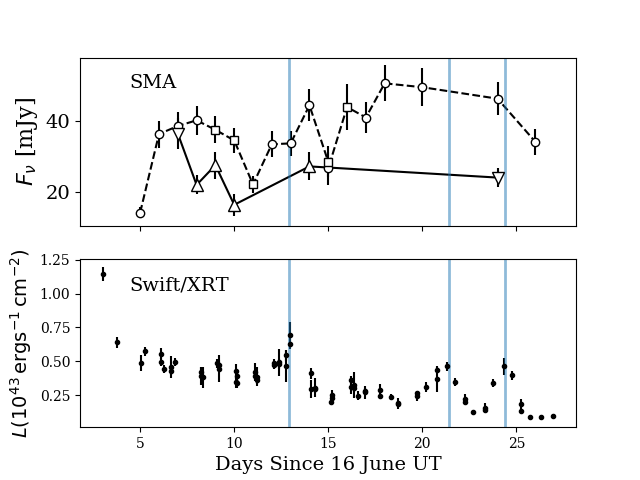
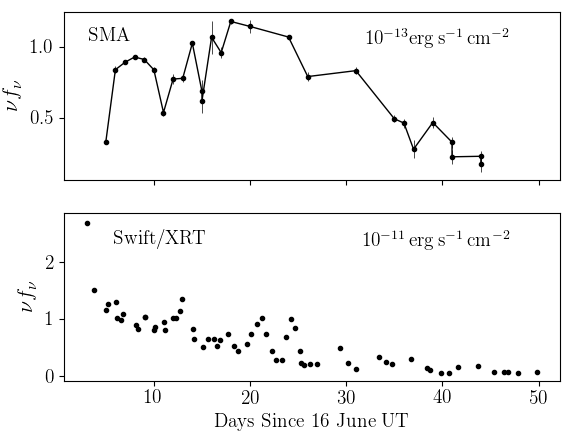
color coded, more sne

diff --git a/paper_plots/nu_peak.py b/paper_plots/nu_peak.py
@@ -8,6 +8,7 @@ rc("font", family="serif")
 rc("text", usetex=True)
 from astropy.table import Table
 from plot_spec import fit_self_abs
+from get_1993J import format_1993J
 
 
 def get_peak(ax, freq_raw, flux_raw, flux_raw_err=None):
@@ -56,12 +57,12 @@ def get_peak(ax, freq_raw, flux_raw, flux_raw_err=None):
             return (nupeak, False)
 
 
-def sn2009bb(ax):
+def sn2009bb(ax, color, label):
     """ Plot for SN 2009bb """
     dt = [20, 52, 81, 145]
     nu_peak = [6, 3, 1, 0.8]
-    ax.scatter(dt, nu_peak, c='grey', marker='o')
-    ax.plot(dt, nu_peak, c='grey', lw=1.0)
+    ax.scatter(dt[0:2], nu_peak[0:2], c=color, marker='o')
+    ax.plot(dt[0:2], nu_peak[0:2], c=color, lw=1.0, label=label)
     ax.text(
             dt[0], nu_peak[0], "SN2009bb", 
             horizontalalignment='right', fontsize=14,
@@ -86,7 +87,24 @@ def at2018cow(ax):
             verticalalignment='center')
 
 
-def sn1998bw(ax):
+def sn1993J(ax, color):
+    """ Plot for SN 1993J """
+    dt, freq, flux = format_1993J()
+    order = np.argsort(dt)
+    choose = flux[order] > 0
+    dt = dt[order][choose]
+    freq = freq[order][choose]
+    flux = flux[order][choose]
+    ax.scatter(11, 87, marker='v', c=color) 
+    ax.scatter(32, 25, marker='v', c=color)
+    ax.scatter(75, 15, marker='v', c=color)
+    ax.scatter(95, 15, marker='v', c=color)
+    ax.plot([11, 32, 75, 95], [87, 25, 15, 15], ls='--', c=color)
+    ax.text(
+            11, 87, "SN1993J", fontsize=14, horizontalalignment='right')
+
+
+def sn1998bw(ax, color, label):
     """ Plot for SN 1998bw 
     http://adsabs.harvard.edu/abs/1999A%26AS..138..467W
     """
@@ -127,59 +145,62 @@ def sn1998bw(ax):
 
     choose = islim == False
     order = np.argsort(dt_keep[choose])
-    ax.scatter(dt_keep[choose][order], nu[choose][order], c='grey', marker='s')
-    ax.plot(dt_keep[choose][order], nu[choose][order], c='grey', lw=1.0)
+    ax.scatter(dt_keep[choose][order], nu[choose][order], c=color, marker='s')
+    ax.plot(dt_keep[choose][order], nu[choose][order], c=color, lw=1.0)
     ax.text(
             dt_keep[choose][0], nu[choose][0], "SN1998bw", fontsize=14,
             verticalalignment='center', horizontalalignment='right')
 
 
-def sn2003L(ax):
+def sn2003L(ax, color):
     """ From Soderberg et al. 2005 """
     p = 3.2
     alpha_gamma = 0.075
     alpha_B = -1.0
     alpha_r = 0.96
     exp = (2*(p-2)*alpha_gamma + 2*(3+p/2)*alpha_B + 2*alpha_r)/(p+4)
-    dt = np.linspace(25.2, 573.0)
+    dt = np.linspace(44.5, 573.0)
     t0 = 30
     nu_a0 = 22.5
     nu_a = nu_a0 * (dt/t0)**(exp)
-    ax.plot(dt, nu_a, c='grey', lw=1.0)
+    ax.plot(dt, nu_a, c=color, lw=1.0)
     ax.text(
             dt[0], nu_a[0], "SN2003L", 
             horizontalalignment='right', fontsize=14,
             verticalalignment='center')
      
 
-def sn2003bg(ax):
+def sn2003bg(ax, color, label):
     """ From Soderberg et al. 2006 """
     p = 3.2
     alpha_gamma = -0.4
     alpha_B = -1.0
     alpha_r = 0.8
     exp = (2*(p-2)*alpha_gamma + 2*(3+p/2)*alpha_B + 2*alpha_r)/(p+4)
-    dt = np.linspace(10.0, 978)
+    dt = np.linspace(35.0, 351)
     t0 = 35
     nu_a0 = 22.5
     nu_a = nu_a0 * (dt/t0)**(exp)
-    ax.plot(dt, nu_a, c='grey', lw=1.0)
+    plt.scatter(dt[0], nu_a[0], c=color, marker='o')
+    ax.plot(dt, nu_a, c=color, lw=1.0, label=label)
     ax.text(
             dt[0], nu_a[0], "SN2003bg", 
-            horizontalalignment='right', fontsize=14,
-            verticalalignment='center')
-     
+            horizontalalignment='left', fontsize=14,
+            verticalalignment='bottom')
 
 
-def swiftj1644(ax):
+def swiftj1644(ax, color, label=None):
     """ 
     Plot for Swift J1644 
     Values directly from the paper
     """
     dt = [5, 10, 15, 22]
     nu_peak = [600, 250, 140, 80]
-    ax.scatter(dt, nu_peak, marker='s', color='grey')
-    ax.plot(dt, nu_peak, color='grey', lw=1.0)
+    ax.scatter(dt, nu_peak, marker='s', color=color)
+    if label:
+        ax.plot(dt, nu_peak, color=color, lw=1.0, label=label)
+    else:
+        ax.plot(dt, nu_peak, color=color, lw=1.0)
     ax.text(dt[0], nu_peak[0], "SwiftJ1644", fontsize=14)
 
 
@@ -224,21 +245,24 @@ def extra():
 if __name__=="__main__":
     fig, ax = plt.subplots(1, 1, figsize=(8,6))
 
-    swiftj1644(ax)
+    swiftj1644(ax, '#a6cee3', 'Rel. TDE')
+
     at2018cow(ax)
-    sn2009bb(ax)
-    sn1998bw(ax)
-    sn2003L(ax)
-    sn2003bg(ax)
+    sn2009bb(ax, '#1f78b4', "Rel. SN")
+    sn1998bw(ax, '#1f78b4', "Rel. SN")
+    sn2003L(ax, '#33a02c')
+    sn2003bg(ax, '#33a02c', 'Interacting SN')
+    sn1993J(ax, '#33a02c')
 
     ax.set_ylabel("$\\nu_p$ [GHz]", fontsize=16)
     ax.set_xlabel("$\\Delta t$ [days]", fontsize=16)
     ax.tick_params(axis='both', labelsize=14)
     ax.set_xscale('log')
     ax.set_yscale('log')
-    ax.set_xlim(2, 2000)
+    ax.set_xlim(2, 100)
     ax.set_ylim(0.5, 1000)
     plt.tight_layout()
+    plt.legend(fontsize=14)
 
     #plt.show()
     plt.savefig("nupeak_evolution.png")

diff --git a/paper_plots/xray_lc.py b/paper_plots/xray_lc.py
@@ -1,47 +1,85 @@
-""" Plot the X-ray light curve vs. the SMA light curves """
+""" Plot the X-ray light curve vs. the SMA light curves
+
+X ray: 2018 Jun 19 at 10:34:30.742 UT was T0
+First SMA track was 2018 Jun 21, 03:58:25 - 14:18:09 UTC (10h 19m)
+I call this Day 5. That means that the XRT point is Day 3.
+So I need to add 3 days to all XRT points.
+"""
 
 import matplotlib.pyplot as plt
 import numpy as np
 from astropy.table import Table
 from plot_spec import get_data
 from plot_lc import sma
+from matplotlib import rc
+rc("font", family="serif")
+rc("text", usetex=True)
 
 direc = "/Users/annaho/Dropbox/Projects/Research/AT2018cow/data"
-dat = Table.read(direc + "/xray_lc.txt", format='ascii', delimiter='&')
-t = dat['t']
-cts = dat['Lum']
-ects =dat['elum']
+dat = Table.read(direc + "/xray_lc.txt", format='ascii')
+t = dat['col1'] / (3600*24) # in days
+# count to flux conversion (absorbed): 4.26 × 10-11 erg cm-2 ct-1
+cts = dat['col4'] * 4.26
+ects =dat['col5']
 
 fig, axarr = plt.subplots(2, 1, sharex=True)
 ax = axarr[0]
-days, nulow, nuhigh, flow, eflow, fhigh, efhigh = sma(ax, legend=False)
+dat = Table.read(
+    "../data/radio_lc.dat", delimiter="&", format='ascii.no_header')
+tel = np.array(dat['col2'])
+choose = tel == 'SMA'
 
-ax.text(
-        0.1, 0.9, "SMA", 
-        transform=ax.transAxes, fontsize=14, verticalalignment='top')
+days = np.array(dat['col1'][choose])
+freq = np.array(dat['col3'][choose]).astype(float)
+flux_raw = np.array(dat['col4'][choose])
+flux = np.array(
+        [float(val.split("pm")[0][1:]) for val in flux_raw])
+eflux = np.array(
+        [float(val.split("pm")[1][0:-1]) for val in flux_raw])
 
-for ii in [12.9, 21.4, 24.4]:
-    ax.axvline(x=ii, alpha=0.5, lw=2)
+choose = np.logical_and(freq > 230, freq < 245)
+low_freq = min(freq[choose])
+max_freq = max(freq[choose])
 
-# T0 for this burst is 2018 Jun 19 at 10:31:55.845 UT
-# whereas I'm using June 16 as my T0
+plot_flux = flux[choose] * 1e-3 * 1e-23 * freq[choose] * 1e9 / 1e-13
+plot_eflux = eflux[choose] * 1e-3 * 1e-23 * freq[choose] * 1e9 / 1e-13
+ax.errorbar(
+        days[choose], plot_flux, plot_eflux,
+        fmt='.', c='k', lw=0.5)
+ax.plot(
+        days[choose], plot_flux, linestyle='-', c='k',
+        label="%s-%s GHz" %(low_freq, max_freq), lw=1.0)
 
-# For the SMA data, the first date is
-# 58290.00000000 + 0.391 # (9.393/24)
-# 58290.391
+ax.set_ylabel("$\\nu f_{\\nu}$", fontsize=16)
+ax.yaxis.set_tick_params(labelsize=14)
+
+ax.text(0.05, 0.9, "SMA", transform=ax.transAxes,
+        fontsize=14, verticalalignment='top')
+ax.text(0.9, 0.9, 
+"$10^{-13} \mathrm{erg}\,\mathrm{s}^{-1}\,\mathrm{cm}^{-2}$", 
+fontsize=14, transform=ax.transAxes, 
+verticalalignment='top', horizontalalignment='right')
 
 ax = axarr[1]
 ax.errorbar((t-t[0])+3, cts, yerr=ects, fmt='.', c='k')
+#ax.plot((t-t[0])+3, cts, c='grey', lw=2.0)
 ax.set_xlabel("Days Since 16 June UT", fontsize=14)
 ax.set_ylabel(
-r"$L (10^{43} \, \mathrm{erg s}^{-1} \, \mathrm{cm}^{-2})$", fontsize=14)
+r"$\nu f_\nu$", fontsize=16)
 
-for ii in [12.9, 21.4, 24.4]:
-    ax.axvline(x=ii, alpha=0.5, lw=2)
+ax.text(0.9, 0.9, 
+        "$10^{-11} \, \mathrm{erg \, s^{-1}} \, \mathrm{cm}^{-2}$",
+        fontsize=14, transform=ax.transAxes, 
+        verticalalignment='top', horizontalalignment='right')
+ax.yaxis.set_tick_params(labelsize=14)
+ax.xaxis.set_tick_params(labelsize=14)
+
+#for ii in [12.9, 21.4, 24.4]:
+#    ax.axvline(x=ii, alpha=0.5, lw=2)
 
 ax.text(
         0.1, 0.9, "Swift/XRT", 
         transform=ax.transAxes, fontsize=14, verticalalignment='top')
 
-#plt.show()
-plt.savefig("xray_vs_radio.png")
+plt.show()
+#plt.savefig("xray_vs_radio.png")

diff --git a/paper_plots/plot_lc.py b/paper_plots/plot_lc.py
@@ -26,7 +26,7 @@ def spindex(ax, d, nulow, nuhigh, flow, eflow, fhigh, efhigh):
     return alpha, ealpha
 
 
-def sma(ax, legend):
+def sma(ax, legend, plot230=True, plot340=True, unit='mjy'):
     dat = Table.read(
         "../data/radio_lc.dat", delimiter="&", format='ascii.no_header')
     tel = np.array(dat['col2'])
@@ -40,50 +40,64 @@ def sma(ax, legend):
     eflux = np.array(
             [float(val.split("pm")[1][0:-1]) for val in flux_raw])
 
-    # add 10% systematic uncertainty to everything
-    flux_err = eflux
-
     choose = np.logical_and(freq > 230, freq < 245)
     low_freq = min(freq[choose])
     max_freq = max(freq[choose])
 
-    ax.errorbar(
-            days[choose], flux[choose], flux_err[choose], 
-            fmt='.', c='k', lw=0.5)
-    ax.plot(
-            days[choose], flux[choose], linestyle='-', c='k',
-            label="%s-%s GHz" %(low_freq, max_freq), lw=2.0)
+    if plot230:
+        if unit=='cgs':
+            plot_flux = flux[choose] * 1e-3 * 1e-23 # cgs units from mJy
+            plot_eflux = eflux[choose] * 1e-3 * 1e-23
+        elif unit=='mjy':
+            plot_flux = flux[choose]
+            plot_eflux = eflux[choose]
+        elif unit=='nufnu':
+            plot_flux = flux[choose] * 1e-3 * 1e-23 * freq[choose] * 1e9
+            plot_eflux = eflux[choose] * 1e-3 * 1e-23 * freq[choose] * 1e9
+        else:
+            print("error: I don't recognize this unit")
+        ax.errorbar(
+                days[choose], plot_flux, plot_eflux, 
+                fmt='.', c='k', lw=0.5)
+        ax.plot(
+                days[choose], plot_flux, linestyle='-', c='k',
+                label="%s-%s GHz" %(low_freq, max_freq), lw=2.0)
     dlow_return = days[choose]
     flow_return_temp = flux[choose]
-    eflow_return_temp = flux_err[choose]
+    eflow_return_temp = eflux[choose]
     nulow_return_temp = freq[choose]
 
     choose = np.logical_and(freq > 330, freq < 345)
     low_freq = min(freq[choose])
     max_freq = max(freq[choose])
 
-    ax.errorbar(
-            days[choose], flux[choose], flux_err[choose],
-            fmt='.', c='black', lw=0.5)
-    ax.plot(
-            days[choose], flux[choose], linestyle='--', c='black',
-            label="%s-%s GHz" %(low_freq, max_freq))
+    if plot340:
+        ax.errorbar(
+                days[choose], flux[choose], eflux[choose],
+                fmt='.', c='black', lw=0.5)
+        ax.plot(
+                days[choose], flux[choose], linestyle='--', c='black',
+                label="%s-%s GHz" %(low_freq, max_freq))
+
+    # You need all these things to get the spectral index plot...
     days_return = days[choose]
     fhigh_return = flux[choose]
-    efhigh_return = flux_err[choose]
+    efhigh_return = eflux[choose]
     nuhigh_return = freq[choose]
     ind = np.array([np.where(dlow_return==val)[0][0] for val in days_return])
     flow_return = flow_return_temp[ind]
     eflow_return = eflow_return_temp[ind]
     nulow_return = nulow_return_temp[ind]
 
-    ax.set_ylabel("$F_{\\nu}$ [mJy]", fontsize=16)
-    ax.yaxis.set_tick_params(labelsize=14)
+    if np.logical_or(plot230, plot340):
+        ax.set_ylabel("$F_{\\nu}$ [mJy]", fontsize=16)
+        ax.yaxis.set_tick_params(labelsize=14)
 
-    ax.text(0.05, 0.9, "SMA", transform=ax.transAxes, fontsize=14)
+        ax.text(0.05, 0.9, "SMA", transform=ax.transAxes, 
+                fontsize=14, verticalalignment='top')
 
-    if legend:
-        ax.legend()
+        if legend:
+            ax.legend()
 
     return days_return, nulow_return, nuhigh_return, flow_return, eflow_return, fhigh_return, efhigh_return
 
